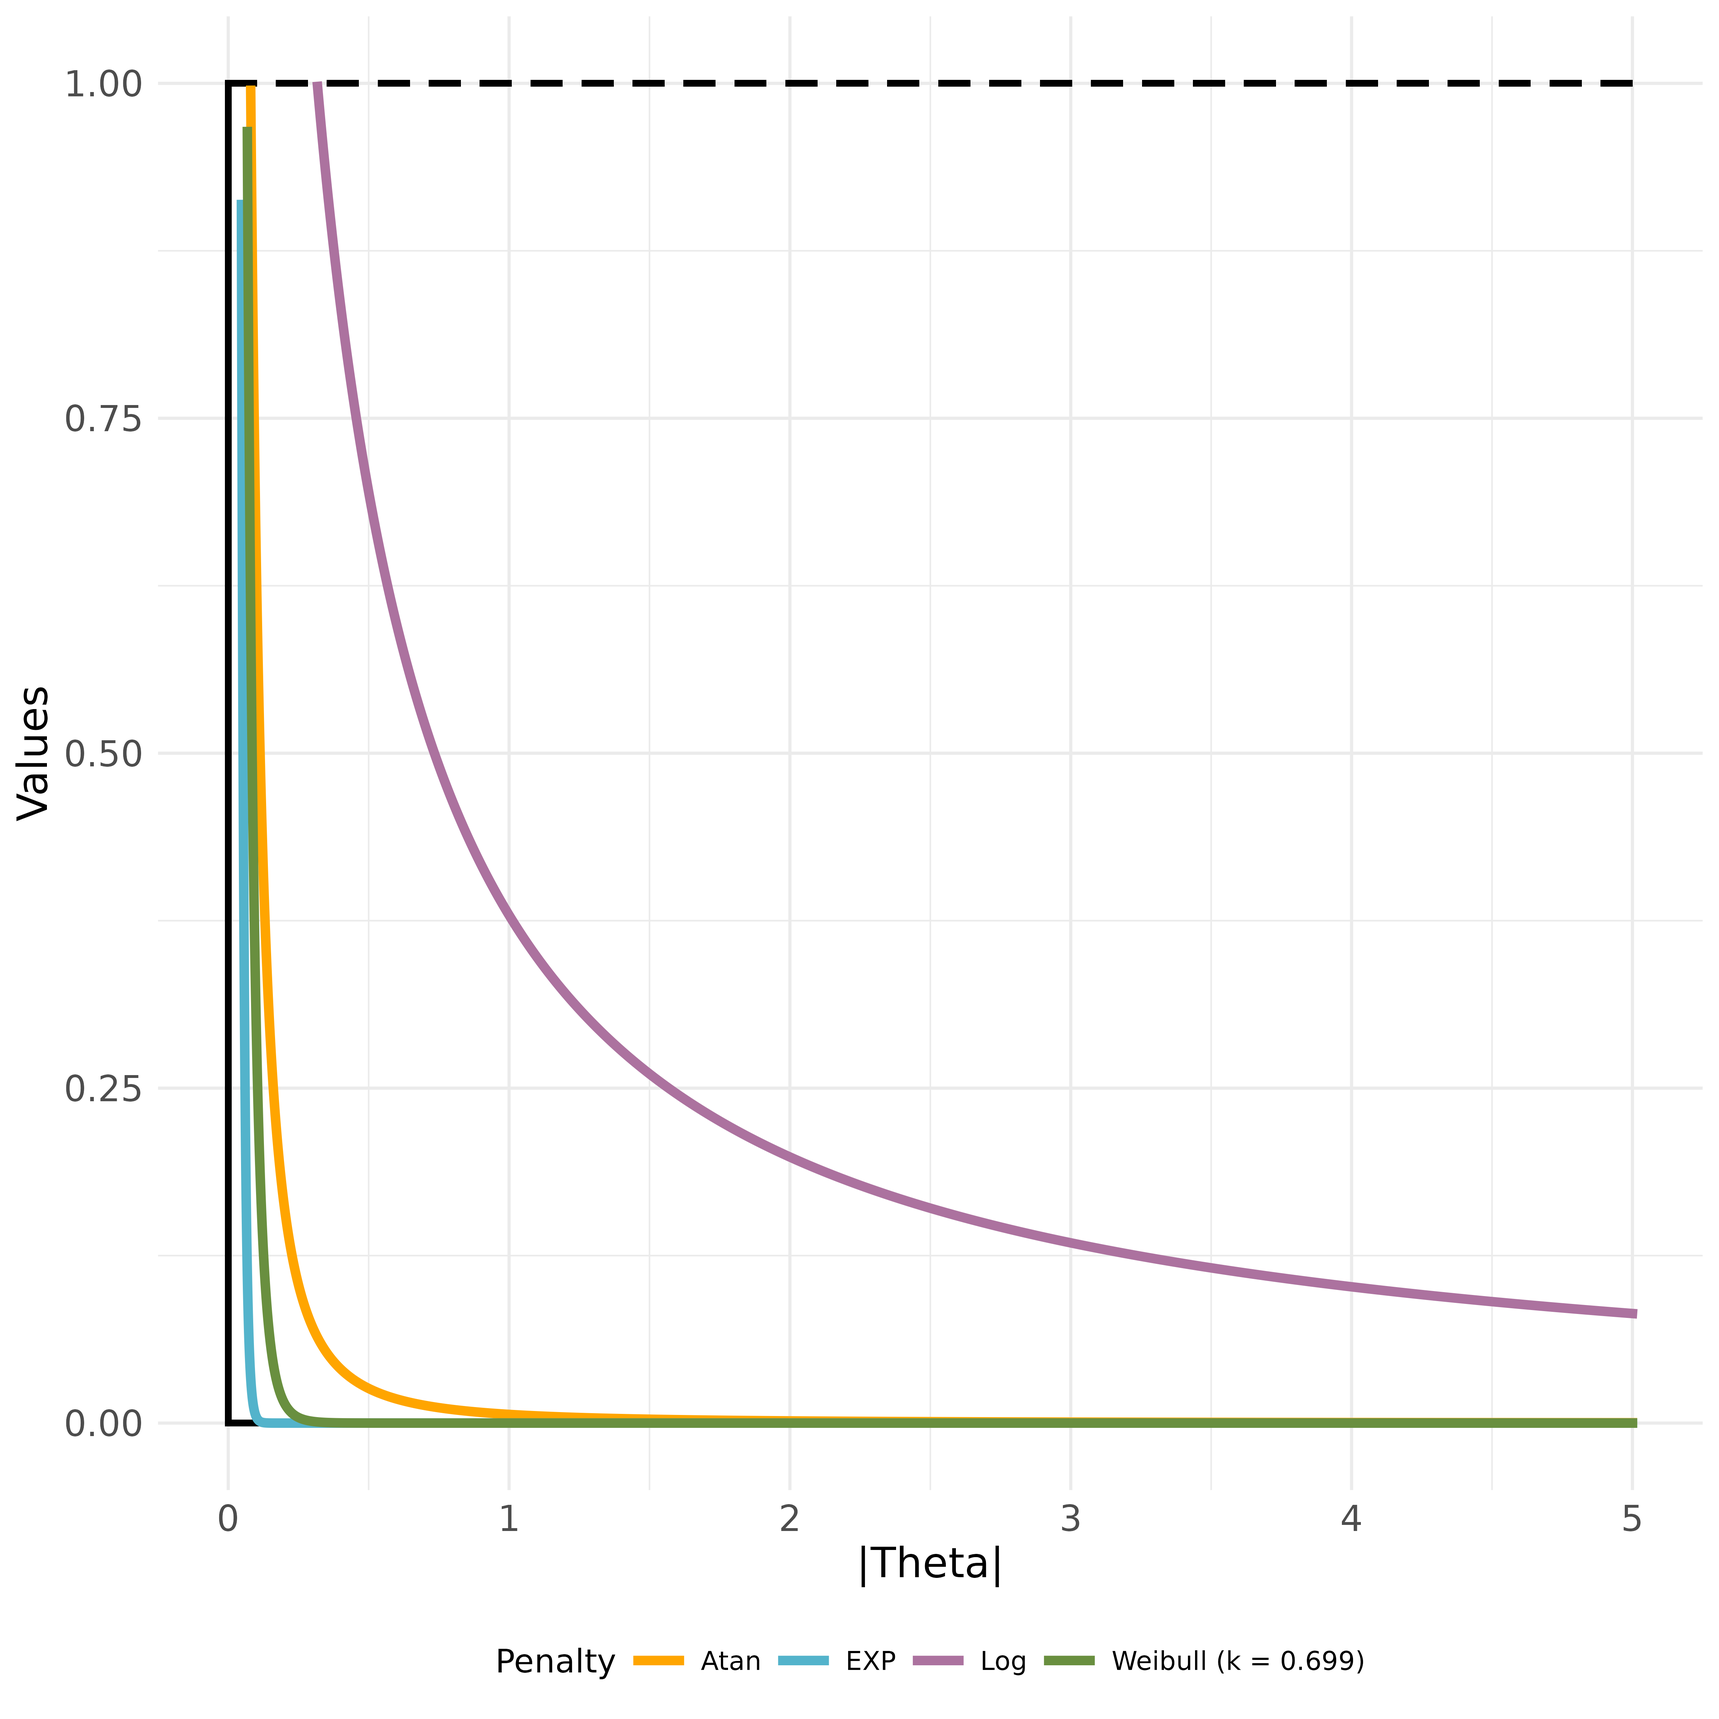
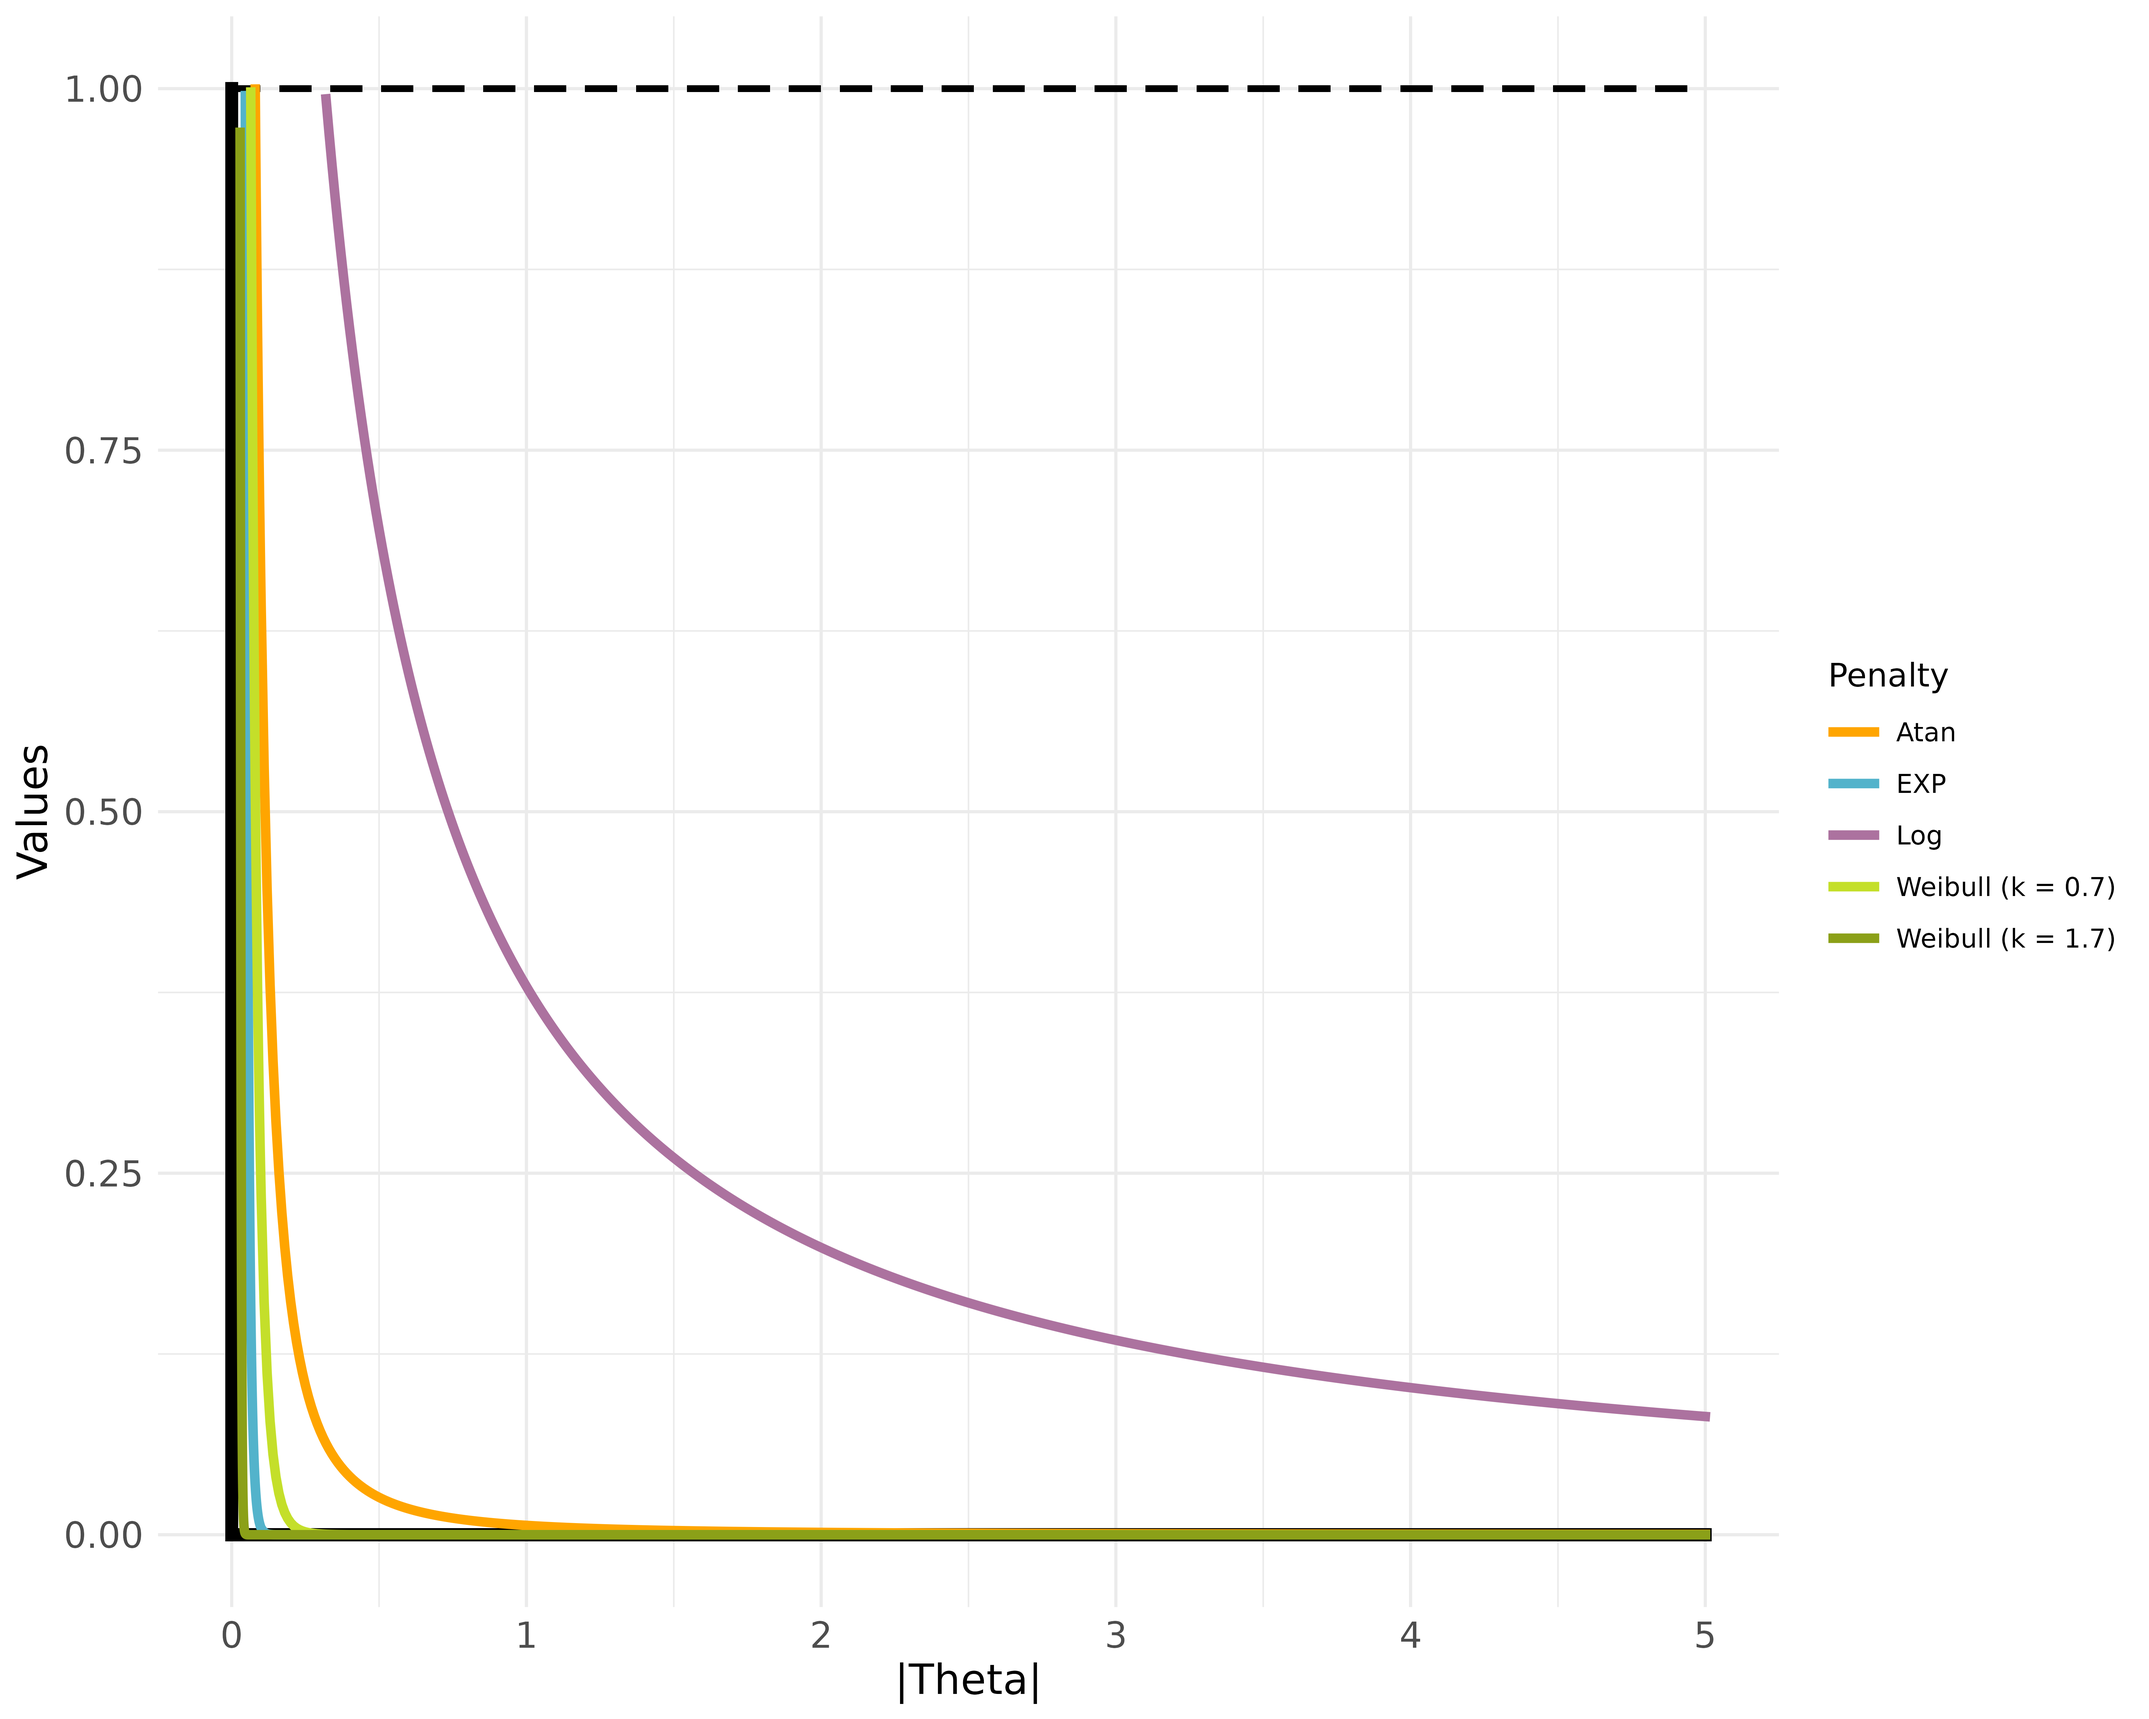
updates to README

diff --git a/README.md b/README.md
@@ -93,17 +93,17 @@ The five penalties available in {L0ggm} are:
 |---------|---------|----------|
 | `"atan"` (Wang & Zhu, 2016) | $\lambda \left(\gamma + \dfrac{2}{\pi}\right) \arctan \left(\dfrac{\lvert x \rvert}{\gamma}\right)$ | 0.01 |
 | `"exp"` (Wang, Fan, & Zhu, 2018) | $\lambda \left(1 - e^{-\lvert x \rvert / \gamma}\right)$ | 0.01 |
-| `"gumbel"` | $\lambda \left(e^{-e^{-\lvert x \rvert / \gamma}}\right)$ | 0.01 |
+| `"gumbel"` | $\dfrac{\lambda}{1 - e^{-1}} \left(e^{-e^{-\lvert x \rvert / \gamma}} - e^{-1}\right)$ | 0.01 |
 | `"log"` (Candes, Wakin, & Boyd, 2008) | $\lambda \dfrac{\log\left(1 + \lvert x \rvert / \gamma\right)}{\log\left(1 + 1/\gamma\right)}$ | 0.10 |
-| `"weibull"` *(default)* | $\lambda \left(1 - e^{-\left(\lvert x \rvert / \gamma\right)^k}\right)$ | 0.01 |
+| `"weibull"` *(default)* | $\lambda \left(1 - e^{-\left(\lvert x \rvert / \gamma\right)^k}\right)$ when $k \leq 1$ | 0.01 |
 
-<em><strong>Note.</strong> Gumbel adjusts</em> $\lambda = \dfrac{\lambda}{1 - e^{-1}}$ <em>to scale consistently with other penalties and subtracts</em> $e^{-1}$ <em>from the penalty (prior to lambda) to adjust the y-intercept to zero.</em>
+<em><strong>Note.</strong> The Gumbel penalty subtracts</em> $e^{-1}$ <em>from the raw Gumbel CDF to shift the y-intercept to zero, then scales by</em> $\lambda / (1 - e^{-1})$ <em>so that the penalty ceiling is</em> $\lambda$<em>, consistent with the other approximations. The Weibull formula shown applies for</em> $k \leq 1$<em>; for</em> $k > 1$ <em>the penalty is piecewise — linear up to the mode</em> $x^*$ <em>and a continuity-shifted Weibull CDF above it — matching the piecewise derivative described below.</em>
 
 <p align="center">
 <img src="images/derivative.png" width = 700 />
 </p>
 
-<em><strong>Figure 1.</strong></em> $L_0$ <em>norm approximation penalties as a function of coefficient magnitude. Solid line:</em> $L_0$ <em>norm (step function). Dashed lines:</em> $L_1$ <em>norm (LASSO) and each continuous approximation penalty implemented in</em> {L0ggm}<em>. Gumbel is roughly equivalent to EXP and not pictured.</em>
+<em><strong>Figure 1.</strong></em> $L_0$ <em>norm approximation penalties as a function of coefficient magnitude. Solid line:</em> $L_0$ <em>norm (step function). Dashed lines:</em> $L_1$ <em>norm (LASSO) and each continuous approximation penalty implemented in</em> {L0ggm}<em>. Gumbel is roughly equivalent to EXP (not pictured) and Weibull $k = 1$ is exactly EXP.</em>
 
 ---
 
@@ -116,6 +116,7 @@ The Weibull penalty introduces a **shape parameter** $k > 0$ that continuously i
 - **$k = 1$**: reduces exactly to the EXP penalty
 - **$k < 1$**: the penalty becomes less concave than exponential, with a wider rise near the origin and slower convergence to $\lambda$ — moving away from the $L_0$ step function (see Figure 1)
 - **$k \sim 0.40$**: approximates the Atan penalty
+- **$k > 1$**: the penalty becomes more concave than exponential, with a sharper threshold near the scale — moving closer to the $L_0$ step function
 
 This variation in $k$ allows Weibull to control the **degree of sparsity bias**: smaller $k$ imposes more shrinkage on nonzero coefficients and less aggressively zeros small ones. Rather than fixing $k$ by hand, {L0ggm} estimates it from the data.
 
@@ -129,23 +130,17 @@ $$\frac{\sum_i |p_i|^{\hat{k}} \log|p_i|}{\sum_i |p_i|^{\hat{k}}} - \frac{1}{\ha
 
 $$\hat{\lambda}_W = \left(\frac{1}{n}\sum_i |p_i|^{\hat{k}}\right)^{1/\hat{k}}$$
 
-**Step 2 — Cap shape.** To guarantee that the penalty is at least as concave as EXP (a necessary condition for the $L_0$ approximation quality), the shape is capped:
+**Step 2 — Set adaptive scale.** The scale parameter $\gamma$ is set to the 95% noise floor: 1.645 times the standard error of the fitted Weibull distribution:
 
-$$k = \min\left(\hat{k}, 1\right)$$
-
-If $k$ is capped at 1, $\hat{\lambda_W}$ is replaced by the sample mean of $|p_{ij}|$.
-
-**Step 3 — Set adaptive scale.** The scale parameter $\gamma$ is set to the 95% noise floor: 1.645 times the standard error of the fitted Weibull distribution, normalized by $\sqrt{n}$:
-
-$$\gamma = \frac{1.645 \cdot \hat{\lambda}_W \sqrt{\Gamma\left(1 + \tfrac{2}{k}\right) - \Gamma\left(1 + \tfrac{1}{k}\right)^2}}{\sqrt{n}}$$
+$$\gamma = \frac{1.645 \cdot \hat{\lambda}_W \sqrt{\Gamma\left(1 + \tfrac{2}{\hat{k}}\right) - \Gamma\left(1 + \tfrac{1}{\hat{k}}\right)^2}}{\sqrt{n}}$$
 
 The standard error of the Weibull scale shrinks with larger samples — an appropriate regularization of $\gamma$ that reduces bias as $n$ grows. Multiplying by 1.645 sets $\gamma$ at the one-sided 95% confidence bound, establishing a noise floor below which partial correlations are treated as indistinguishable from zero. The resulting $\gamma$ is small when the partial correlations are tightly concentrated (sparse true network), driving the penalty closer to $L_0$, and larger when correlations are more diffuse.
 
-The derivative used in the LLA is:
+The derivative used in the LLA is defined piecewise to ensure the penalty weight is always non-increasing in $|x|$. When $k \leq 1$ the Weibull PDF is already monotonically decreasing, so the standard formula applies directly. When $k > 1$ the raw PDF has an interior mode at $x^* = \gamma \left(\tfrac{k-1}{k}\right)^{1/k}$; values below this mode would otherwise receive *less* weight than values above it, violating the oracle-property requirement. The derivative is therefore capped at its peak for $|x| \leq x^*$:
 
-$$\rho'(x; \lambda, \gamma, k) = \lambda \cdot \frac{k}{\gamma} \left(\frac{|x|}{\gamma}\right)^{k-1} e^{-(\dfrac{|x|}{\gamma})^k}$$
+$$\rho'(x; \lambda, \gamma, k) = \lambda \cdot \frac{k}{\gamma} \times \begin{cases} \left(\dfrac{x^*}{\gamma}\right)^{k-1} e^{-(x^*/\gamma)^k} & \text{if } k > 1 \text{ and } |x| \leq x^* \\[6pt] \left(\dfrac{|x|}{\gamma}\right)^{k-1} e^{-(|x|/\gamma)^k} & \text{otherwise} \end{cases}$$
 
-Note that as $|x|$ grows, the derivative decays to zero — large true edges receive vanishingly small additional penalization, directly addressing the magnitude bias of $L_1$ methods.
+where $x^* = \gamma \left(\dfrac{k-1}{k}\right)^{1/k}$ is the mode of the Weibull PDF. The resulting derivative is monotonically non-increasing for all $k > 0$: as $|x|$ grows past the peak, weights decay to zero — large true edges receive vanishingly small additional penalization, directly addressing the magnitude bias of $L_1$ methods.
 
 ### Distributional foundations and extreme value theory
 
@@ -177,9 +172,9 @@ Only Type I (Gumbel) and Type III (Weibull) are used as penalties in {L0ggm}. Th
 
 **Why extreme value CDFs are ideal $L_0$ approximations.** The $L_0$ penalty is a Heaviside step function: zero below a threshold, constant above. Extreme value CDFs share exactly this structural character — they are bounded, concave, and rise from 0 to a finite ceiling — because they represent the limiting distribution of extreme order statistics under the most general conditions. This is no coincidence from the perspective of sparsity: recovering sparse structure amounts to discriminating between the very smallest coefficients (noise) and all others (signal), which is precisely the problem that extreme value distributions are designed to describe.
 
-The Weibull CDF in particular describes the distribution of the **minimum** of a large sample from distributions with polynomial density near zero. For $k < 1$ (the sub-exponential, highly-sparse regime), this minimum distribution is maximally concentrated near the origin, rises steeply, and saturates rapidly — the tightest continuous approximation to the Heaviside step available within the parametric family. As $k \to 0$, the Weibull CDF converges pointwise to $\lambda \cdot \mathbf{1}(x \neq 0)$, the $L_0$ indicator itself.
+The Weibull CDF in particular describes the distribution of the **minimum** of a large sample from distributions with polynomial density near zero. Because partial correlations are bounded in $[0, 1]$, the relevant domain of the penalty lies in the range $[0, \hat{\lambda}_W]$ where $\hat{\lambda}_W < 1$. In this regime, the shape parameter $k$ controls the sharpness of the threshold at the scale $\gamma$: for $x < \gamma$, raising to a larger power $k$ shrinks $(x/\gamma)^k$ toward zero (since $x/\gamma < 1$), while for $x > \gamma$, the same large $k$ amplifies $(x/\gamma)^k$ toward infinity. As $k \to \infty$, the Weibull CDF converges pointwise to $\lambda \cdot \mathbf{1}(x > \gamma)$ — a step function at the scale — the $L_0$ indicator itself.
 
-The same structure governs the LLA derivative. The Weibull PDF with $k < 1$ is monotonically decreasing and unbounded at $x = 0$: the smallest partial correlations receive the largest adaptive penalty weights, and large ones receive weights approaching zero. This is the continuous analog of $L_0$ hard thresholding — aggressively zero small edges, leave large edges essentially unpenalized — and it is what gives Weibull-LLA its oracle-consistent selection properties. Because the adaptive fitting procedure estimates $k$ from the data and caps it at 1, the penalty is always at least as concave as EXP, and in genuinely sparse settings will automatically select $k < 1$, driving the penalty toward the $L_0$ limit.
+The same structure governs the LLA derivative. For $k > 1$, the piecewise derivative holds a constant plateau near the origin (up to the mode $x^*$) and then decays — producing a consistent penalty on all near-zero coefficients and vanishing penalization on large ones. This is the continuous analog of $L_0$ hard thresholding: aggressively zero small edges, leave large edges essentially unpenalized. For $k < 1$, the derivative decays from a very large value at the origin, imposing the largest penalty weights on the smallest coefficients — an increasingly proportional, $L_1$-like profile. The adaptive fitting procedure estimates $k$ from the data without restriction; in dense or moderate-signal settings it will select $k > 1$, driving the penalty toward the $L_0$ limit, while sparse settings with many near-zero partial correlations tend to produce $k < 1$.
 
 ---
 
